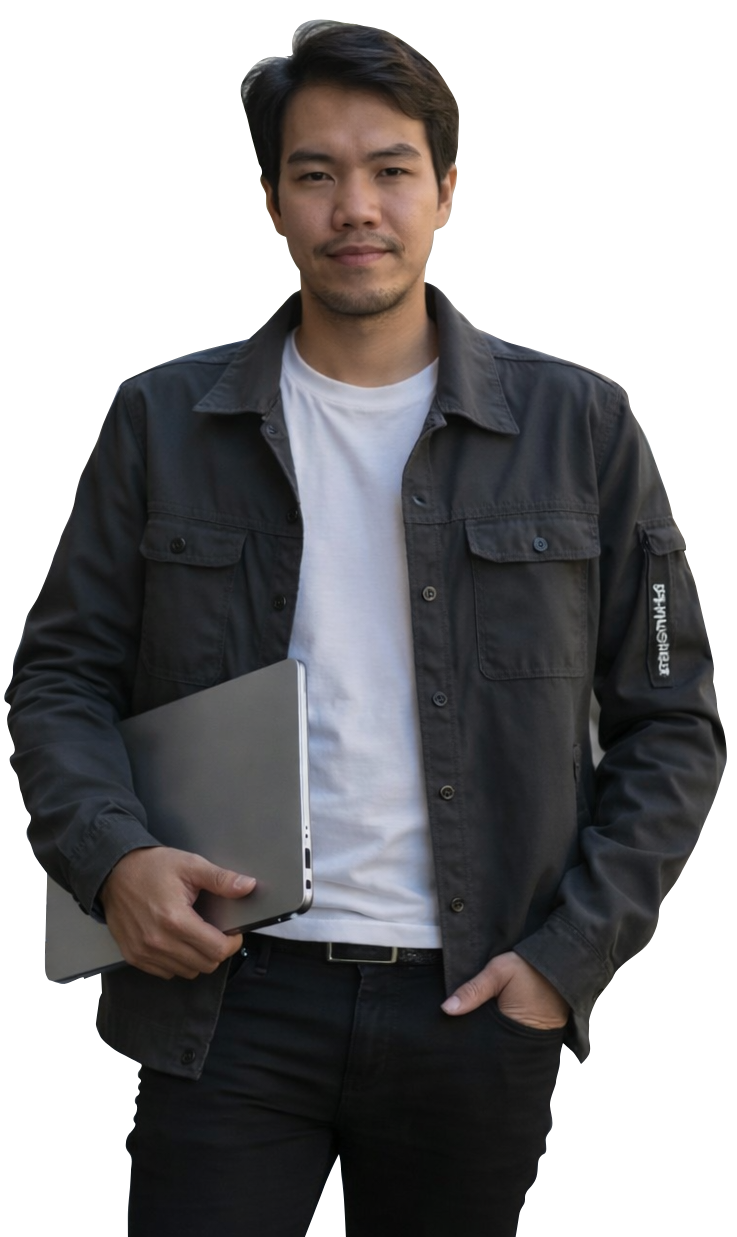
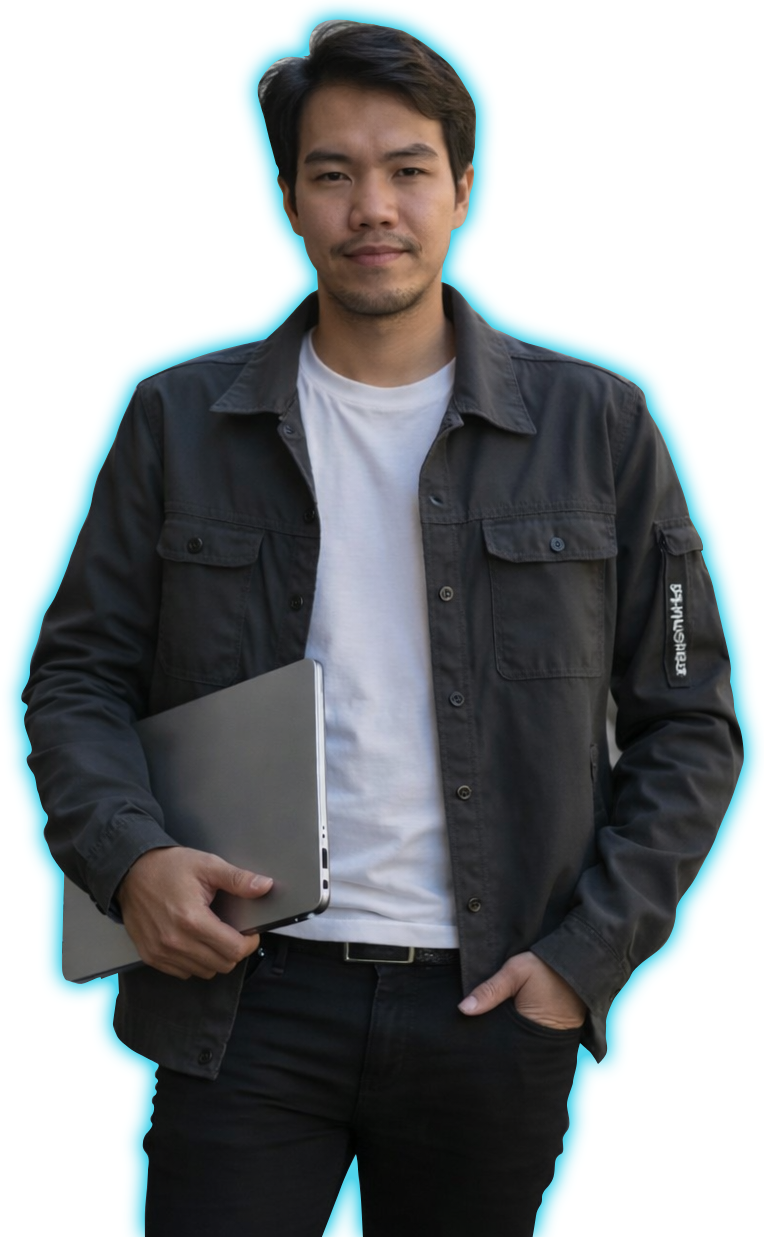
improve featured image visuals

diff --git a/index.html b/index.html
@@ -79,8 +79,7 @@
         <div class="row gy-4 align-items-center">
           <div class="col-lg-6 order-2 order-lg-1">
             <div class="hero-content">
-              <h1 data-aos="fade-up" data-aos-delay="200">Hello, I'm <span class="highlight">Ramil Erguiza,
-                  Aoanan</span>
+              <h1 data-aos="fade-up" data-aos-delay="200">Hello, I'm <span class="highlight">Ramil E. Aoanan</span>
               </h1>
               <p>I am a web developer. I specialize in front-end web
                 development.</p>

diff --git a/assets/css/main.css b/assets/css/main.css
@@ -894,7 +894,7 @@ section,
   max-width: 450px;
   margin: 0 auto;
   margin-bottom: -24px;
-  opacity: .7;
+  opacity: .8;
 }
 
 .image-wrapper img {
